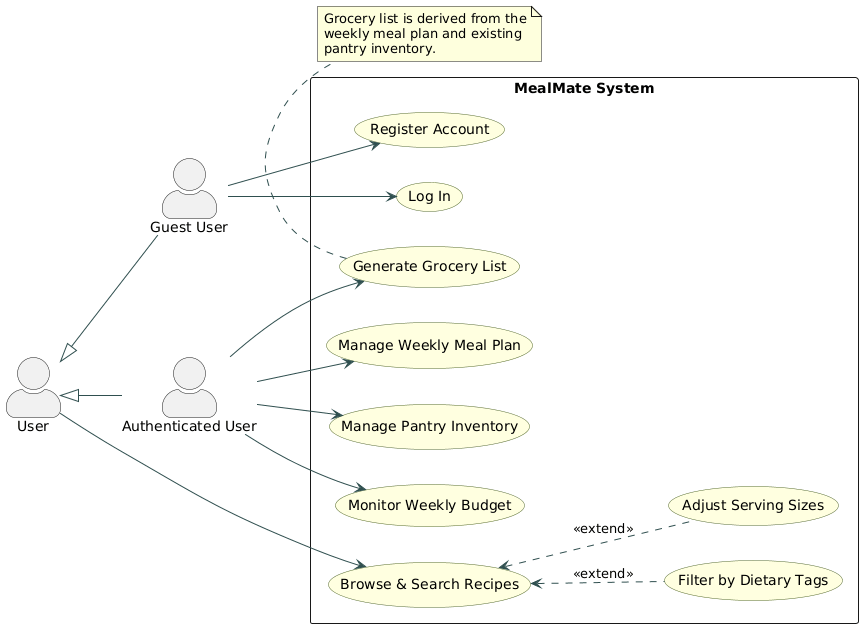
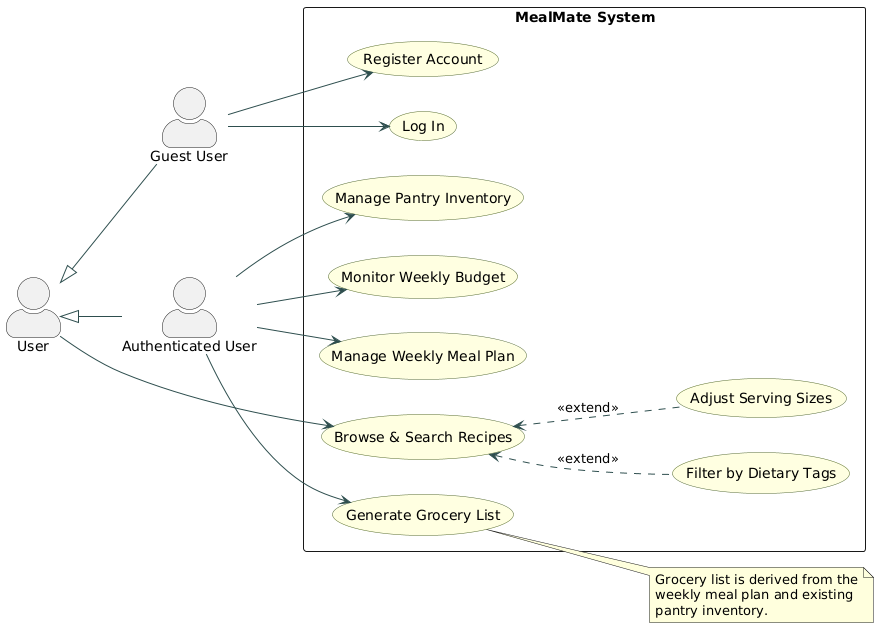
docs: visually streamline actor hierarchy and note bindings in use case diagram

diff --git a/docs/UML_DIAGRAMS.md b/docs/UML_DIAGRAMS.md
@@ -24,8 +24,8 @@ actor "User" as U
 actor "Guest User" as Guest
 actor "Authenticated User" as AuthUser
 
-Guest -up-|> U
-AuthUser -up-|> U
+U <|-- Guest
+U <|-- AuthUser
 
 rectangle "MealMate System" {
   usecase "Register Account"             as UC_Reg
@@ -53,11 +53,9 @@ AuthUser --> UC_List
 AuthUser --> UC_Pantry
 AuthUser --> UC_Budget
 
-note bottom of UC_List
-  Grocery list is derived from the
-  weekly meal plan and existing
-  pantry inventory.
-end note
+note "Grocery list is derived from the\nweekly meal plan and existing\npantry inventory." as N_List
+UC_List .. N_List
+
 @enduml
 ```
 
